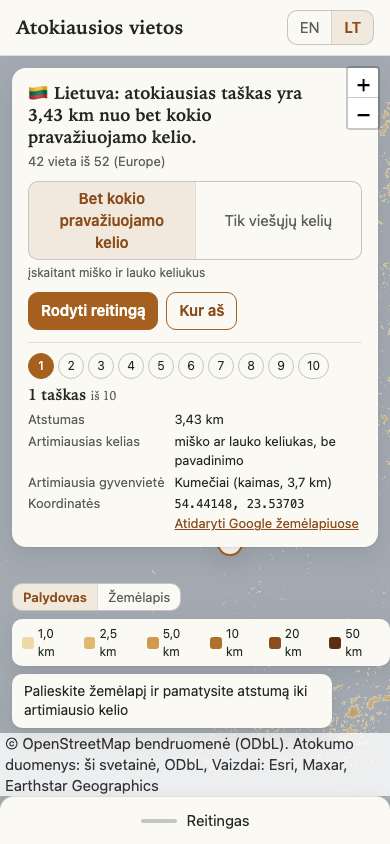
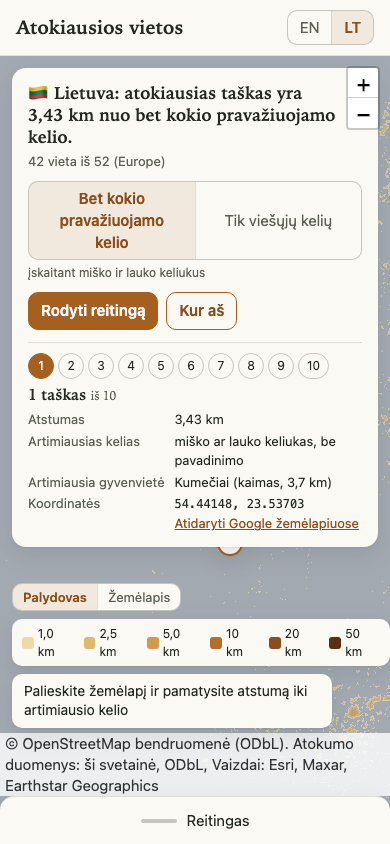
site: phone sheet opens with the current row fully below the handle, card padding at the computed 24 px minimum, about-dialog press state reset after each click

Changed region(s): [[0.0615, 0.154, 0.4923, 0.1848], [0.5538, 0.1232, 0.8615, 0.154]]

diff --git a/site/css/app.css b/site/css/app.css
@@ -172,6 +172,7 @@ html[lang="en"] .about__body [data-lang="lt"], html[lang="lt"] .about__body [dat
 /* Hover is neutral and the current unit is the only row tinted with the accent: sharing one colour made a
    row under the pointer look selected. */
 .ranking__btn:hover { background: var(--hair); }
+.ranking__row--current { scroll-margin-top: 12px; } /* the panel body's top padding, kept when scrolled to */
 .ranking__row--current .ranking__btn { background: var(--accent-soft); }
 .ranking__rank { color: var(--ink-2); font-variant-numeric: tabular-nums; font-size: 13px; }
 .ranking__name { overflow: hidden; text-overflow: ellipsis; white-space: nowrap; }
@@ -204,8 +205,9 @@ html[lang="en"] .about__body [data-lang="lt"], html[lang="lt"] .about__body [dat
   .mapctl { bottom: 116px; }
   .card { width: calc(100% - 24px); }
   /* The full-width card runs under Leaflet's zoom control, which stays where Leaflet puts it (top right of
-     the map, 34px wide with its border, 10px of margin, 64px tall on a touch device). The card's top two
-     lines are the ones it reaches, so they keep the control's width plus its margin free on the right and
-     the headline wraps before it instead of under it (#34). */
-  .card__headline, .card__rank { padding-right: 44px; }
+     the map, 34px wide with its border, 10px of margin, 64px tall on a touch device): its left edge is 44px
+     from the screen edge. The card sits 12px in and pads 16px, so its text already stops 28px from the edge;
+     24px more leaves 8px of clearance. The card's top two lines are the ones the control reaches, so they
+     wrap before it instead of under it (#34). */
+  .card__headline, .card__rank { padding-right: 24px; }
 }

diff --git a/site/js/ranking.js b/site/js/ranking.js
@@ -26,7 +26,9 @@ export function createRanking(el, { onPick }) {
 
   // The one place that scrolls the current unit into view, for the desktop panel and the phone sheet alike.
   // A sheet that has just been opened is still animating its height, so this runs against a container that
-  // is about to grow; the browser clamps the scroll position as it does, which lands on the same row.
+  // is about to grow: 'center' would be computed against the 48 px collapsed sheet and land the row a few
+  // pixels under the top edge once the sheet has grown. 'start' does not read the container's height; the
+  // row's scroll-margin-top keeps the body's top padding above it.
   function showCurrent(block) {
     const cur = list.querySelector('.ranking__row--current');
     if (cur) cur.scrollIntoView({ block });
@@ -37,7 +39,7 @@ export function createRanking(el, { onPick }) {
     STATES.forEach((s) => el.classList.toggle(`panel--${s}`, s === sheet));
     handle.setAttribute('aria-expanded', String(sheet !== 'collapsed'));
     // Opening the sheet at rank 1 hides the unit the reader is looking at, wherever it ranks (#35).
-    if (sheet !== 'collapsed') showCurrent('center');
+    if (sheet !== 'collapsed') showCurrent('start');
   }
 
   function row(u) {

diff --git a/site/js/app.js b/site/js/app.js
@@ -172,7 +172,11 @@ async function main() {
   };
   let pressedOutside = false;
   about.addEventListener('mousedown', (e) => { pressedOutside = outsideDialog(e); });
-  about.addEventListener('click', (e) => { if (pressedOutside && outsideDialog(e)) about.close(); });
+  about.addEventListener('click', (e) => {
+    const pressed = pressedOutside;
+    pressedOutside = false; // a keyboard click reads as (0, 0), outside: it must not inherit the last press
+    if (pressed && outsideDialog(e)) about.close();
+  });
 
   let current = { unit, doc: null, rank: 1 };
 
